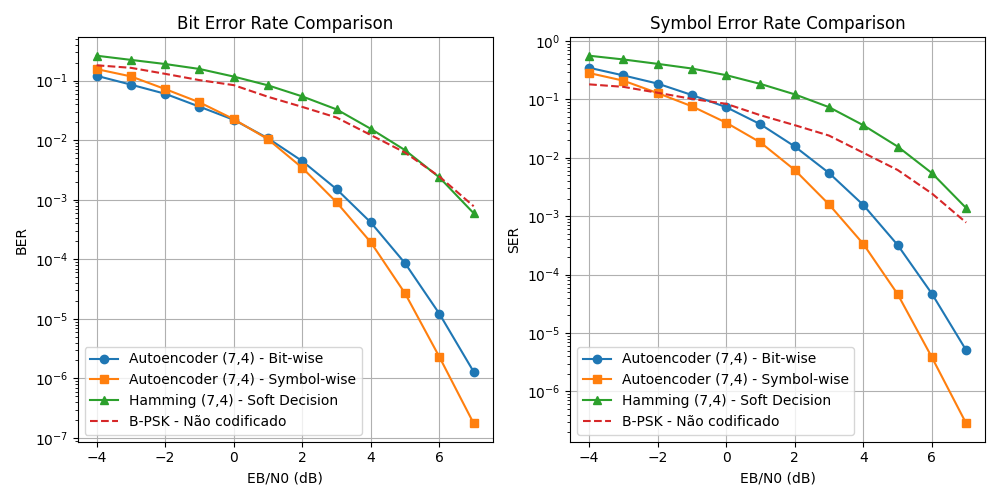
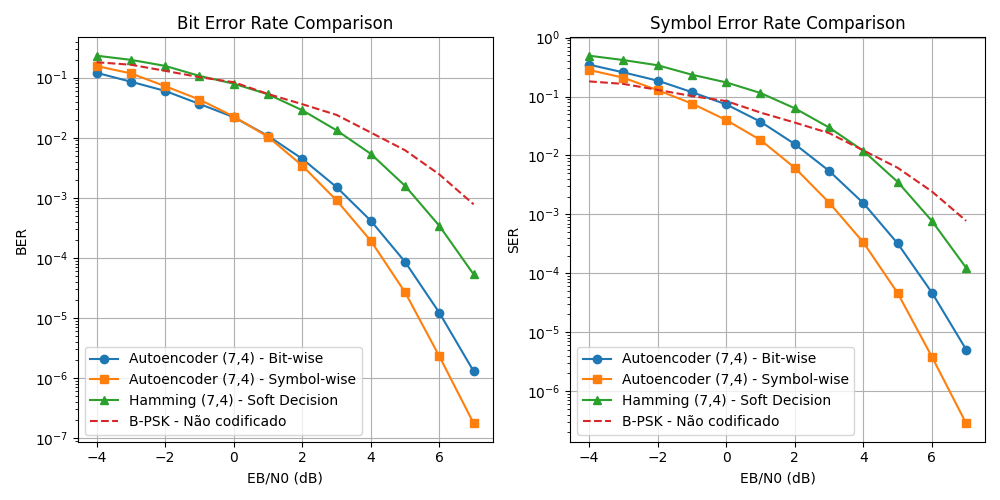
[Fix]: Correção na figura para a curva Hamming (7,4) Soft Decision

diff --git a/Compare_Bit_and_Symbol_Wise.py b/Compare_Bit_and_Symbol_Wise.py
@@ -45,13 +45,13 @@ bit_local_ber_ser_4_7 = f"./Pontos/Autoencoder/AutoEncoder_{k}_{n}_ER_BitWise-ne
 bit_optimizer = tf.keras.optimizers.Adam(learning_rate=0.001)
 
 # Treina o modelo
-train(bit_model_train, SNRdb_train, bit_optimizer, NUM_TRAINING_ITERATIONS, BATCH_SIZE, bit_local_weights_4_7, aval_training=True, steps_for_aval=2500, local_aval=bit_local_aval_4_7)
+#train(bit_model_train, SNRdb_train, bit_optimizer, NUM_TRAINING_ITERATIONS, BATCH_SIZE, bit_local_weights_4_7, aval_training=True, steps_for_aval=2500, local_aval=bit_local_aval_4_7)
 
 # Recupera os pesos treinados
 bit_model = recover_weights(bit_model, bit_local_weights_4_7)
 
 # Avalia o modelo treinado
-bit_ber, bit_ser = aval_model(bit_model, ebno_dbs, max_iter=750000, block_errors=500, graph_mode="xla", local=bit_local_ber_ser_4_7)
+#bit_ber, bit_ser = aval_model(bit_model, ebno_dbs, max_iter=750000, block_errors=500, graph_mode="xla", local=bit_local_ber_ser_4_7)
 bit_ber, bit_ser = recover_points_model(bit_local_ber_ser_4_7)
 bit_ber, bit_ser = [bit_ber[ebno] for ebno in ebno_dbs], [bit_ser[ebno] for ebno in ebno_dbs]
 
